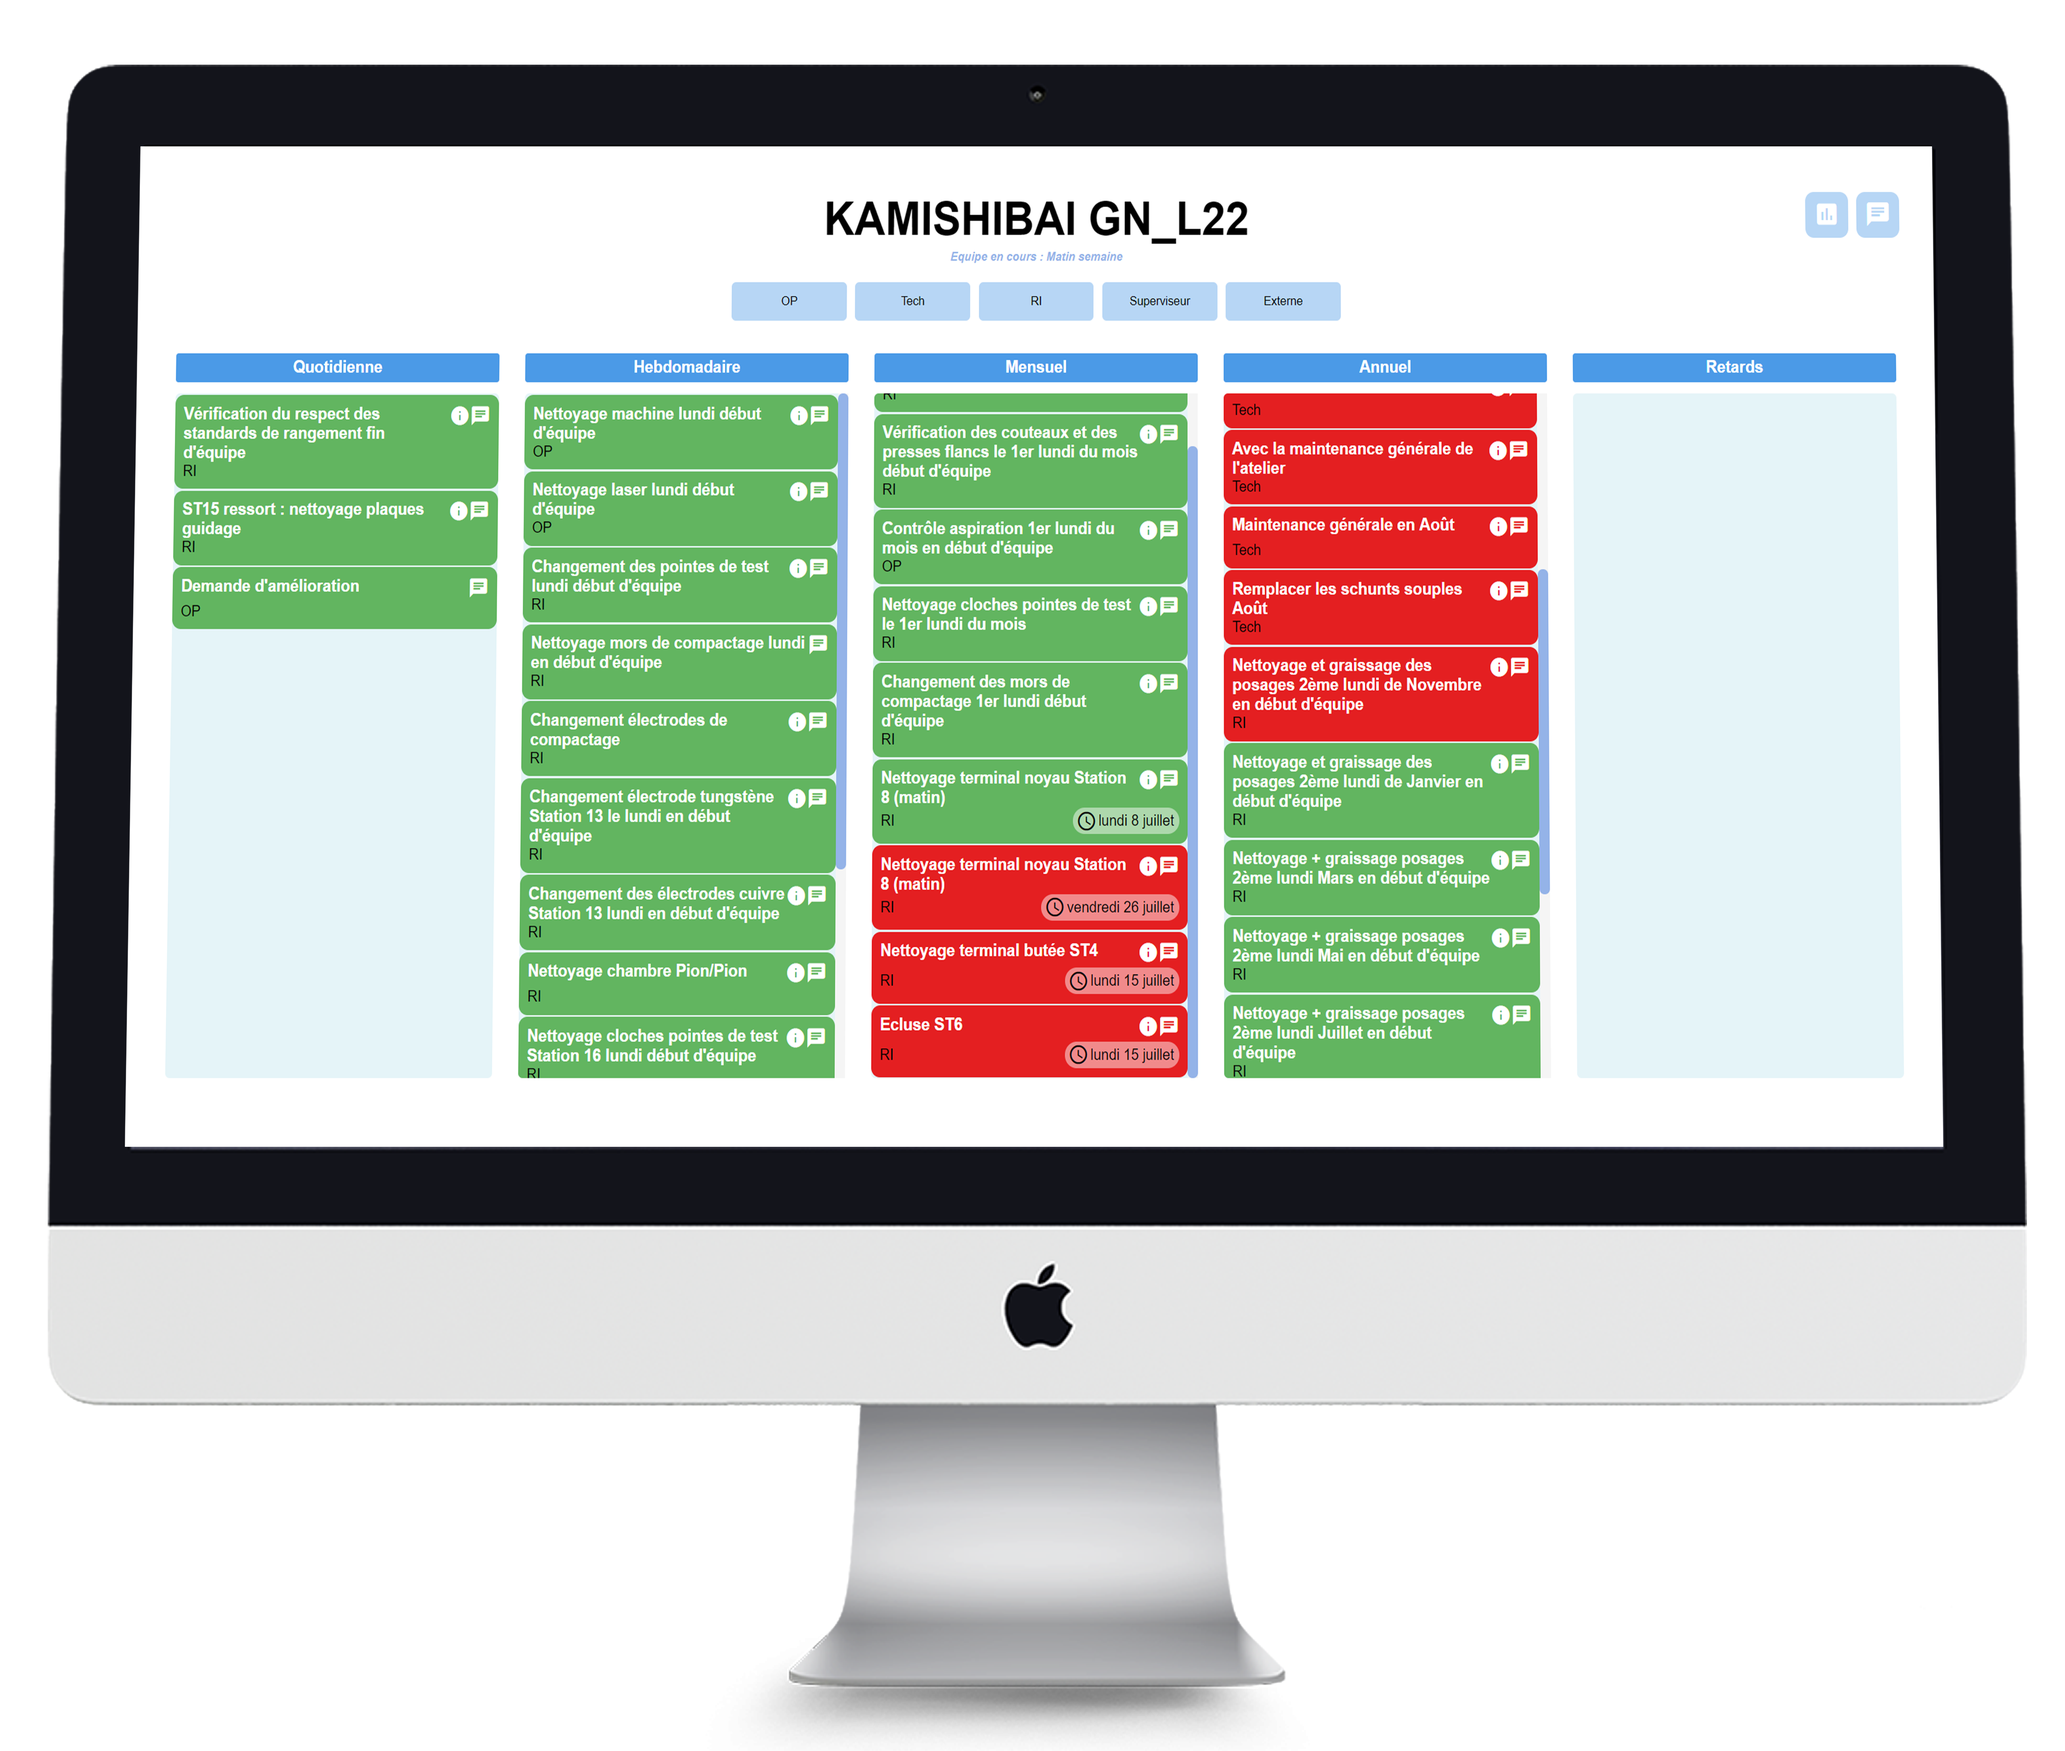
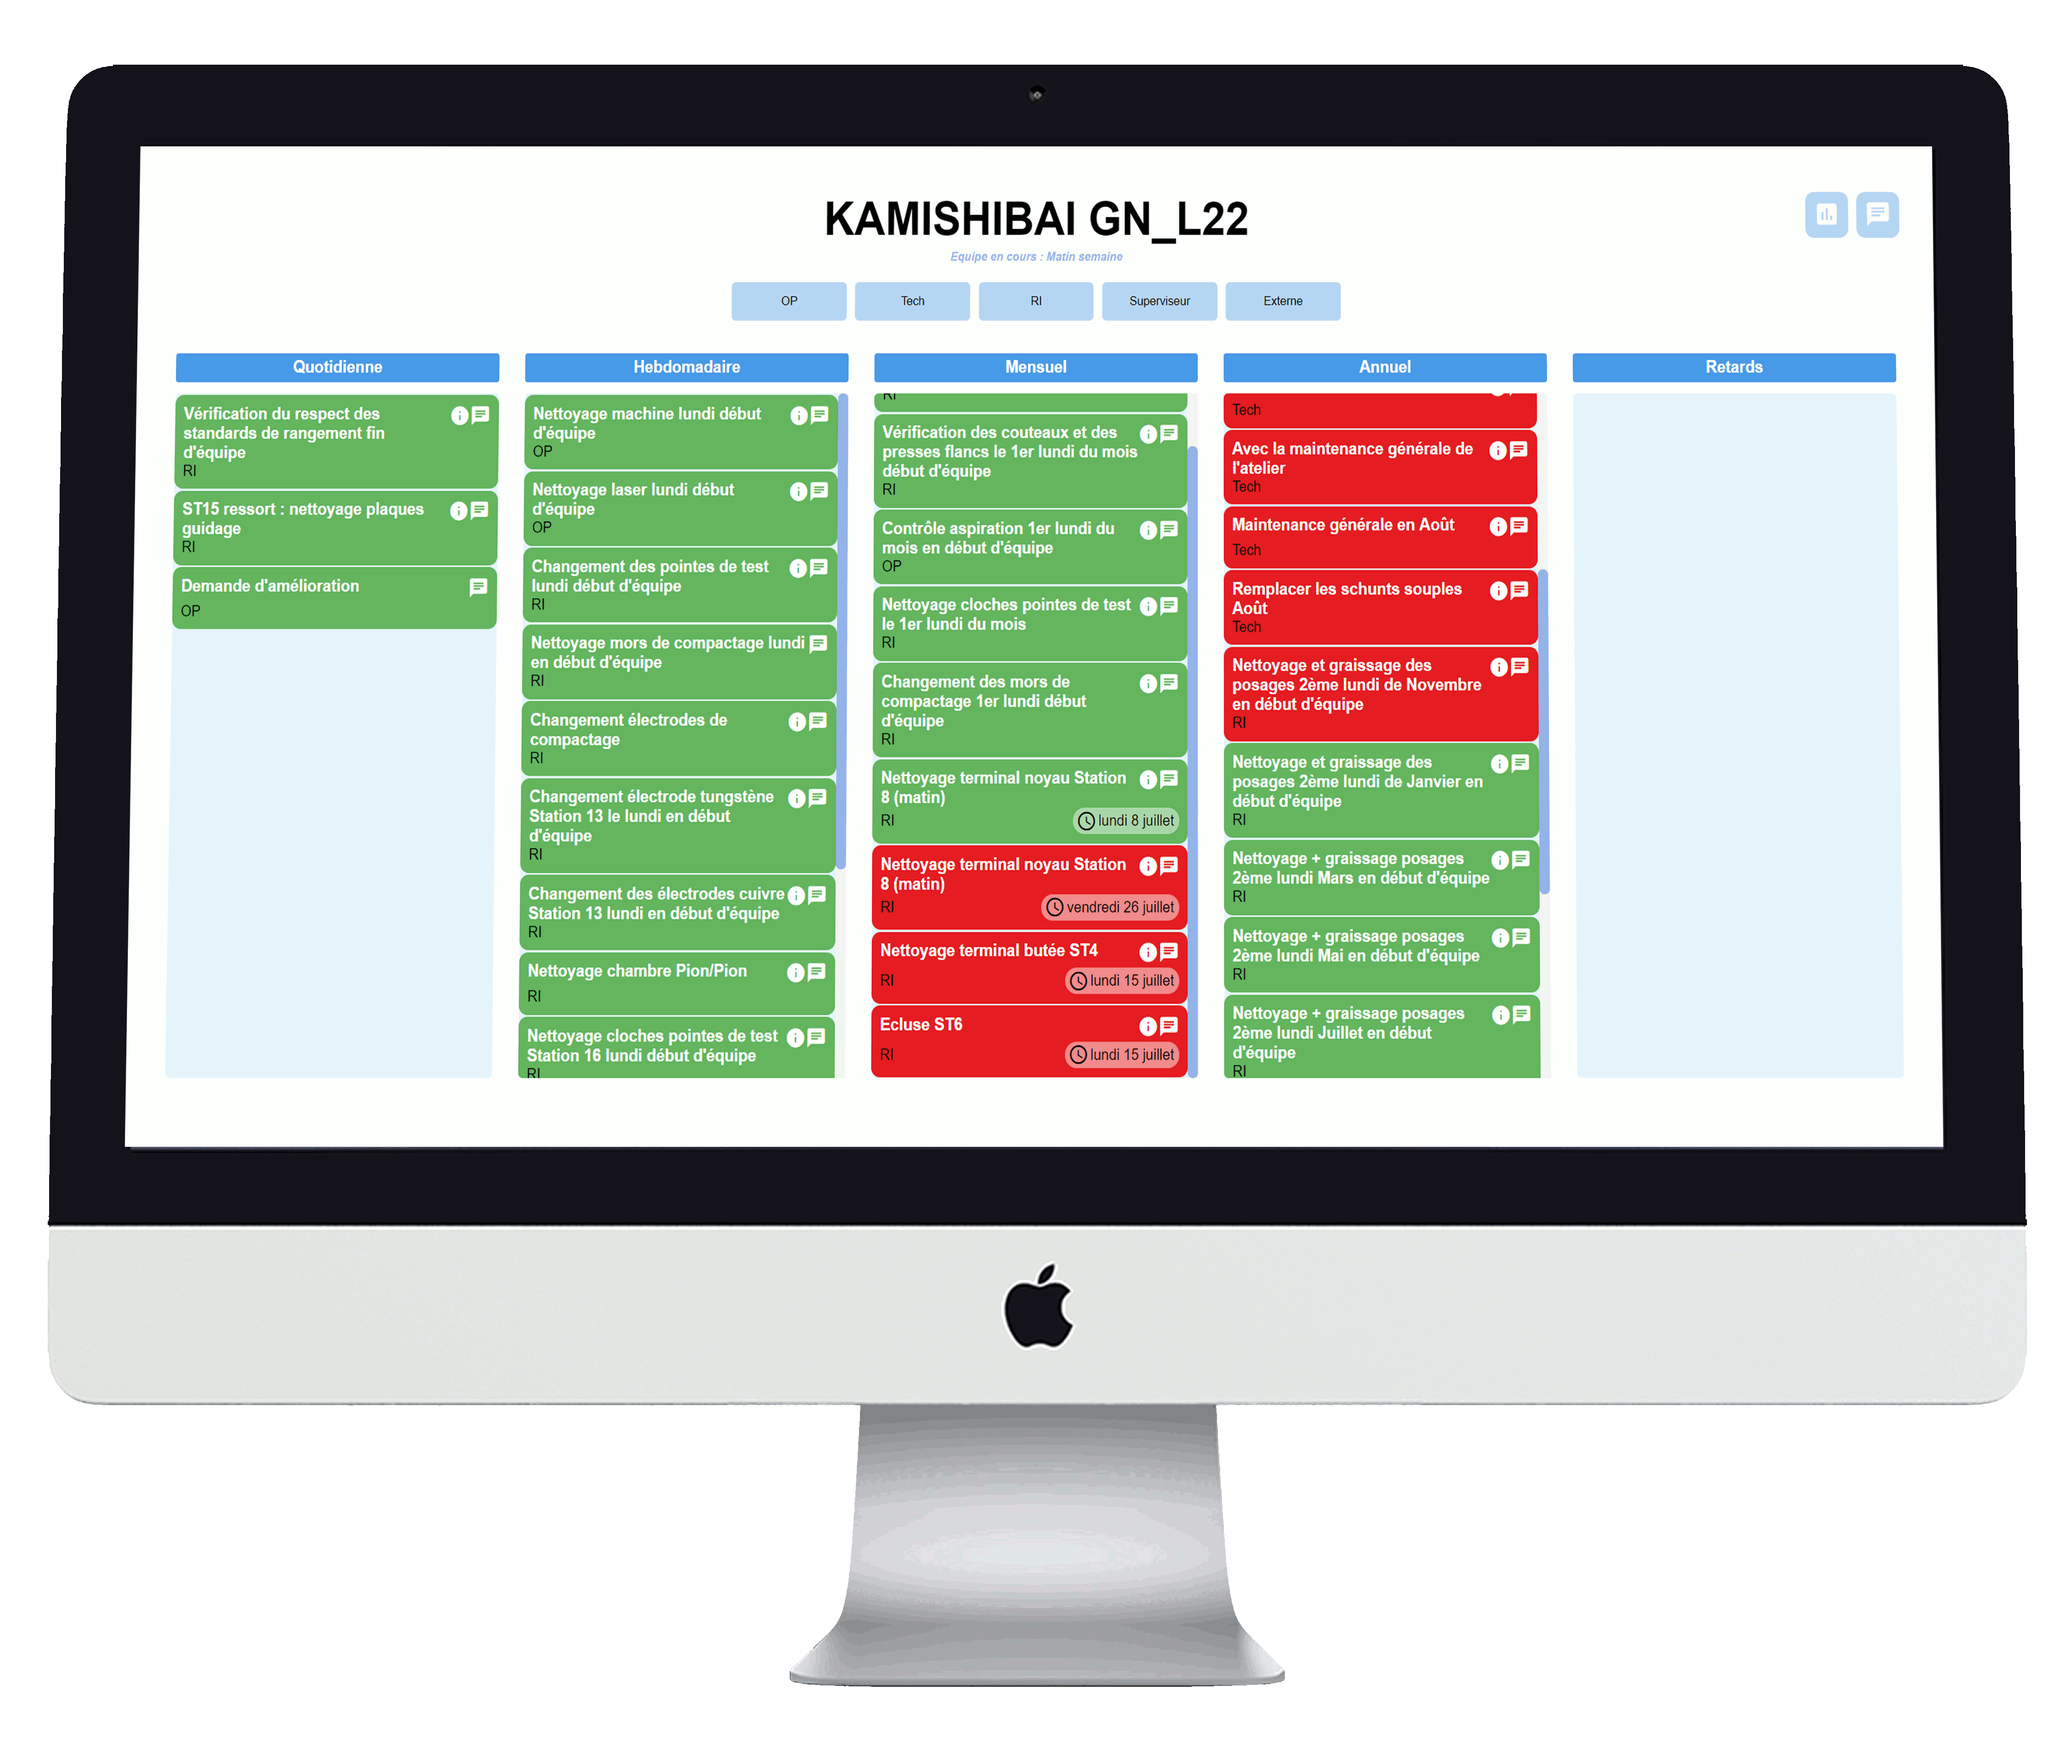
:bento: Compress all img

Changed region(s): [[0.3733, 0.9353, 0.6222, 0.9976]]

diff --git a/index.html b/index.html
@@ -143,7 +143,7 @@
                     <div class="row">
                         <div class="col-md-6">
                             <div class="demo-image">
-                                <img class="reveal" src="assets/img/showcases/showcase-2/examples/home_4.png" alt="">
+                                <img class="reveal" src="assets/img/showcases/showcase-2/examples/home_4.jpeg" alt="">
                             </div>
                         </div>
                         <div class="col-md-5 col-md-offset-1">
@@ -155,7 +155,7 @@
                     <div class="row">
                         <div class="col-md-6 col-md-offset-1 hidden-lg hidden-print hidden-md ">
                             <div class="demo-image">
-                                <img class="reveal" src="assets/img/showcases/showcase-2/examples/home_6.png" alt="">
+                                <img class="reveal" src="assets/img/showcases/showcase-2/examples/home_6.jpeg" alt="">
                             </div>
                         </div>
                         <div class="col-md-5">
@@ -164,7 +164,7 @@
                         </div>
                         <div class="col-md-6 col-md-offset-1 hidden-sm hidden-xs">
                             <div class="demo-image">
-                                <img class="reveal" src="assets/img/showcases/showcase-2/examples/home_6.png" alt="">
+                                <img class="reveal" src="assets/img/showcases/showcase-2/examples/home_6.jpeg" alt="">
                             </div>
                         </div>
                     </div>
@@ -174,7 +174,7 @@
             <div class="section section-no-padding">
                 <div class="parallax filter-gradient blue" data-color="blue">
                     <div class="parallax-background">
-                        <img class ="parallax-background-image" src="assets/img/showcases/showcase-2/bg.png">
+                        <img class ="parallax-background-image" src="assets/img/showcases/showcase-2/bg.jpeg">
                     </div>
                     <div class="info">
                         <h1 class="reveal">Des audits simplifiés (ISO, IATF) !</h1>

diff --git a/en.html b/en.html
@@ -149,7 +149,7 @@
                     <div class="row">
                         <div class="col-md-6">
                             <div class="demo-image">
-                                <img class="reveal" src="assets/img/showcases/showcase-2/examples/home_4.png" alt="">
+                                <img class="reveal" src="assets/img/showcases/showcase-2/examples/home_4.jpeg" alt="">
                             </div>
                         </div>
                         <div class="col-md-5 col-md-offset-1">
@@ -162,7 +162,7 @@
                     <div class="row">
                         <div class="col-md-6 col-md-offset-1 hidden-lg hidden-print hidden-md ">
                             <div class="demo-image">
-                                <img class="reveal" src="assets/img/showcases/showcase-2/examples/home_6.png" alt="">
+                                <img class="reveal" src="assets/img/showcases/showcase-2/examples/home_6.jpeg" alt="">
                             </div>
                         </div>
                         <div class="col-md-5">
@@ -171,7 +171,7 @@
                         </div>
                         <div class="col-md-6 col-md-offset-1 hidden-sm hidden-xs">
                             <div class="demo-image">
-                                <img class="reveal" src="assets/img/showcases/showcase-2/examples/home_6.png" alt="">
+                                <img class="reveal" src="assets/img/showcases/showcase-2/examples/home_6.jpeg" alt="">
                             </div>
                         </div>
                     </div>
@@ -181,7 +181,7 @@
             <div class="section section-no-padding">
                 <div class="parallax filter-gradient blue" data-color="blue">
                     <div class="parallax-background">
-                        <img class ="parallax-background-image" src="assets/img/showcases/showcase-2/bg.png">
+                        <img class ="parallax-background-image" src="assets/img/showcases/showcase-2/bg.jpeg">
                     </div>
                     <div class="info">
                         <h1 class="reveal">Simplified audits (ISO, IATF) !</h1>
